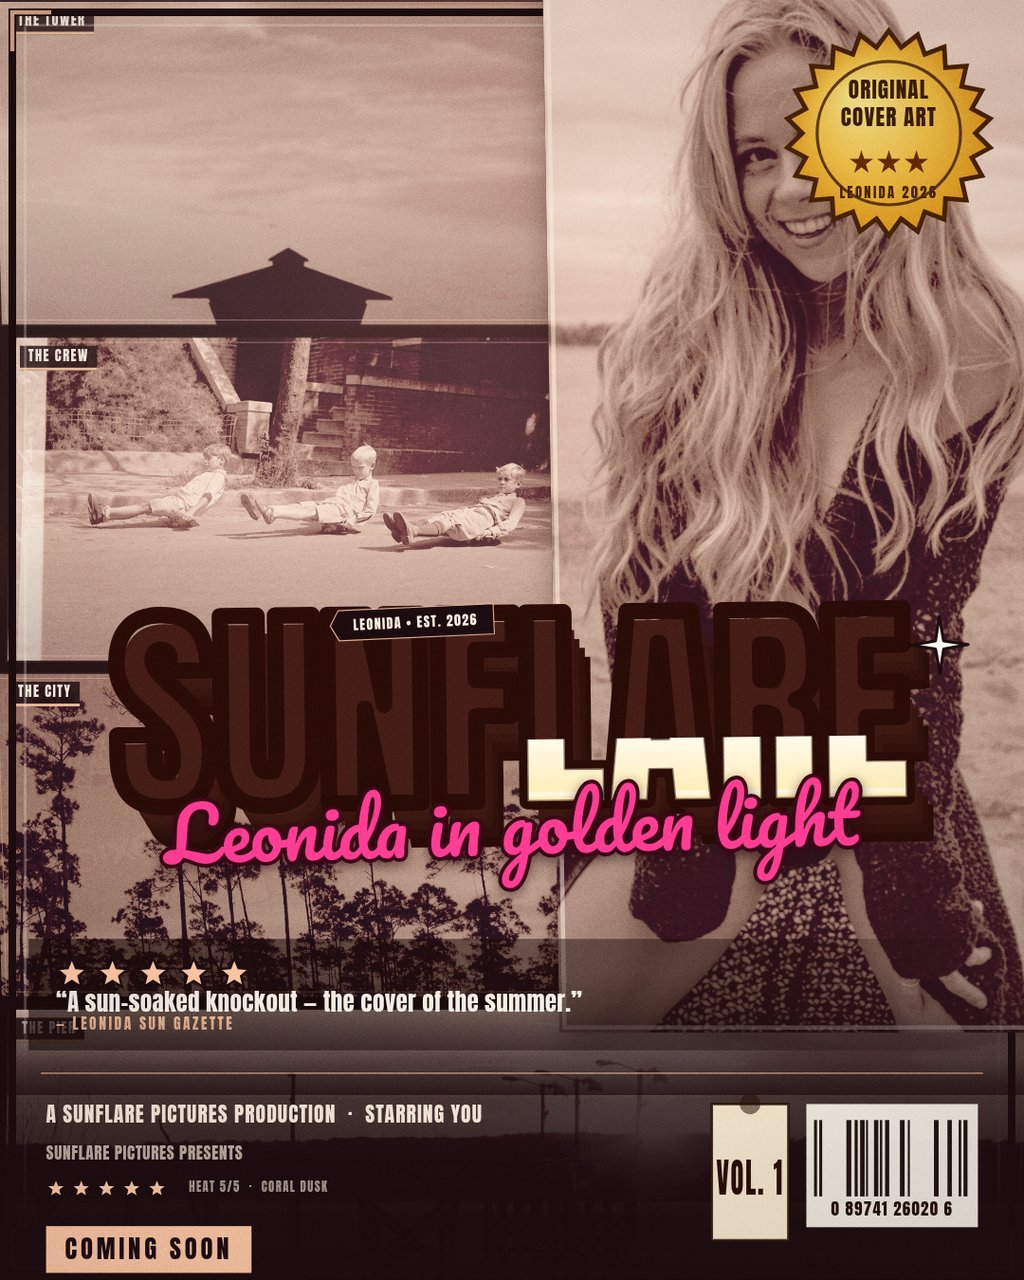
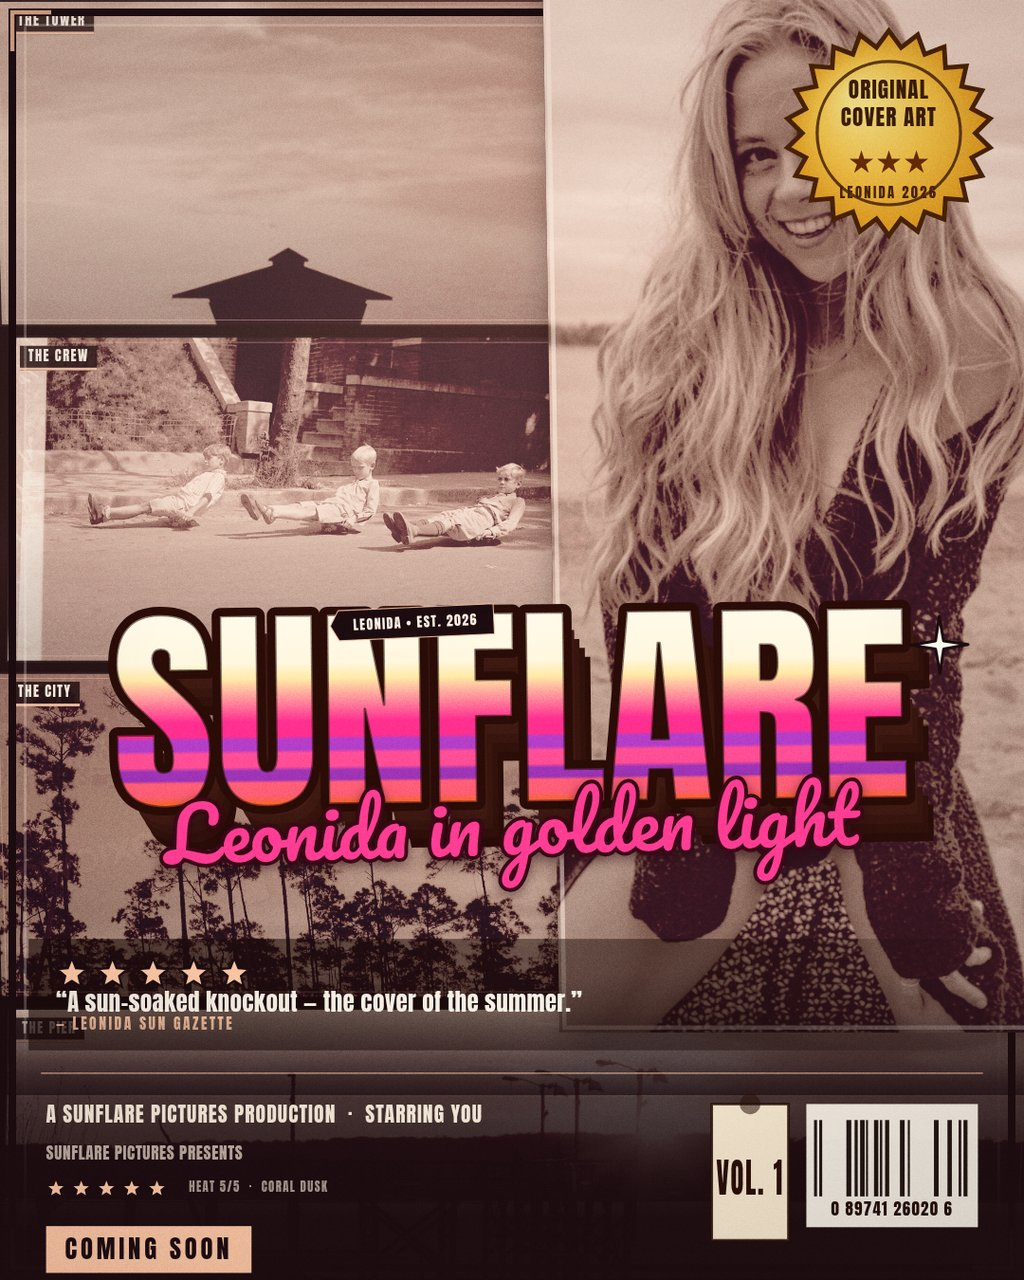
Sunflare: round 5 chrome title fix

Changed region(s): [[0.0938, 0.4688, 0.9062, 0.6562]]

diff --git a/app/src/render.js b/app/src/render.js
@@ -448,42 +448,97 @@ function drawInkFrame(ctx, plan, palette, size) {
 
 /* --------------------------------------------------------------- lettering */
 
+/** Chrome ramp, top to foot: cream -> sun-yellow -> orange. */
+const CHROME_BASE = [
+  [0.00, '#fffaea'],
+  [0.34, '#ffe9a6'],
+  [0.62, '#ffc94a'],
+  [0.86, '#ff8a24'],
+  [1.00, '#f7671c'],
+];
+
+/** Magenta/purple stripes across the lower half: [top, height, colour, alpha]
+ *  as fractions of the title block height. */
+const CHROME_BANDS = [
+  [0.56, 0.075, '#ff2294', 0.92],
+  [0.655, 0.052, '#a82ade', 0.86],
+  [0.725, 0.070, '#ff44a0', 0.90],
+  [0.815, 0.048, '#8c22d2', 0.84],
+  [0.878, 0.062, '#ff5a82', 0.88],
+];
+
+/** Specular line across the upper third, the way chrome catches the sun. */
+const CHROME_SPEC = [0.235, 0.022, '#ffffff', 0.55];
+
+function hexRgb(hex) {
+  const n = parseInt(hex.replace('#', ''), 16);
+  return [(n >> 16) & 255, (n >> 8) & 255, n & 255];
+}
+
+/** Piecewise-linear sample of the base ramp at t in [0, 1]. */
+function chromeBaseAt(t) {
+  const x = Math.min(1, Math.max(0, t));
+  for (let i = 0; i < CHROME_BASE.length - 1; i++) {
+    const [t0, c0] = CHROME_BASE[i];
+    const [t1, c1] = CHROME_BASE[i + 1];
+    if (x <= t1) {
+      const k = (x - t0) / Math.max(1e-6, t1 - t0);
+      const a = hexRgb(c0);
+      const b = hexRgb(c1);
+      return [
+        a[0] + (b[0] - a[0]) * k,
+        a[1] + (b[1] - a[1]) * k,
+        a[2] + (b[2] - a[2]) * k,
+      ];
+    }
+  }
+  return hexRgb(CHROME_BASE[CHROME_BASE.length - 1][1]);
+}
+
+function blendRgb(rgb, hex, alpha) {
+  const b = hexRgb(hex);
+  return [
+    rgb[0] + (b[0] - rgb[0]) * alpha,
+    rgb[1] + (b[1] - rgb[1]) * alpha,
+    rgb[2] + (b[2] - rgb[2]) * alpha,
+  ];
+}
+
+/** Base colour at t with every stripe band and the specular line blended in. */
+function chromeColorAt(t) {
+  let c = chromeBaseAt(t);
+  for (const [y, hh, hex, alpha] of CHROME_BANDS) {
+    if (t >= y && t <= y + hh) c = blendRgb(c, hex, alpha);
+  }
+  const [sy, sh, shex, salpha] = CHROME_SPEC;
+  if (t >= sy && t <= sy + sh) c = blendRgb(c, shex, salpha);
+  return [Math.round(c[0]), Math.round(c[1]), Math.round(c[2])];
+}
+
 /**
  * The striped-chrome fill: cream at the top, sun-yellow through the middle and
  * orange at the foot, with magenta and purple bands run across the lower half.
- * Built once per masthead at the title block's own size, then used as a pattern
- * so the stripes line up with the block rather than with each glyph.
+ * Built as a direct linear gradient in the glyph frame, so it lines up with
+ * the text block at every layout and export size. Breakpoints land on every
+ * ramp stop and every band edge, duplicated either side so the stripes stay
+ * crisp.
  */
-function stripedChromePattern(ctx, blockW, blockH) {
-  const c = document.createElement('canvas');
-  c.width = Math.max(2, Math.round(blockW));
-  c.height = Math.max(2, Math.round(blockH));
-  const g = c.getContext('2d');
-  const grad = g.createLinearGradient(0, 0, 0, c.height);
-  grad.addColorStop(0.00, '#fffaea');
-  grad.addColorStop(0.34, '#ffe9a6');
-  grad.addColorStop(0.62, '#ffc94a');
-  grad.addColorStop(0.86, '#ff8a24');
-  grad.addColorStop(1.00, '#f7671c');
-  g.fillStyle = grad;
-  g.fillRect(0, 0, c.width, c.height);
-
-  // Horizontal magenta/purple stripes through the lower half of the glyphs.
-  const bands = [
-    [0.56, 0.075, 'rgba(255, 34, 148, 0.92)'],
-    [0.655, 0.052, 'rgba(168, 42, 222, 0.86)'],
-    [0.725, 0.070, 'rgba(255, 68, 160, 0.90)'],
-    [0.815, 0.048, 'rgba(140, 34, 210, 0.84)'],
-    [0.878, 0.062, 'rgba(255, 90, 130, 0.88)'],
-  ];
-  for (const [y, hh, colour] of bands) {
-    g.fillStyle = colour;
-    g.fillRect(0, c.height * y, c.width, Math.max(1, c.height * hh));
+function stripedChromeFill(ctx, top, height) {
+  const grad = ctx.createLinearGradient(0, top, 0, top + height);
+  const edges = new Set([0, 1]);
+  for (const [t] of CHROME_BASE) edges.add(t);
+  for (const [y, hh] of CHROME_BANDS) { edges.add(y); edges.add(y + hh); }
+  edges.add(CHROME_SPEC[0]);
+  edges.add(CHROME_SPEC[0] + CHROME_SPEC[1]);
+  const stops = [...edges].sort((a, b) => a - b);
+  for (const t of stops) {
+    const rgb = chromeColorAt(t);
+    const css = `rgb(${rgb[0]}, ${rgb[1]}, ${rgb[2]})`;
+    grad.addColorStop(Math.max(0, t - 1e-6), css);
+    grad.addColorStop(t, css);
+    grad.addColorStop(Math.min(1, t + 1e-6), css);
   }
-  // A specular line across the upper third, the way chrome catches the sun.
-  g.fillStyle = 'rgba(255,255,255,0.55)';
-  g.fillRect(0, c.height * 0.235, c.width, Math.max(1, c.height * 0.022));
-  return ctx.createPattern(c, 'no-repeat');
+  return grad;
 }
 
 /** A four-point sparkle, cream with a dark keyline. */
@@ -562,10 +617,25 @@ function drawMasthead(ctx, state, plan, palette, size) {
   ctx.font = `${fsize}px ${TITLE_FACE}`;
   ctx.letterSpacing = `${fsize * tracking}px`;
 
-  const pattern = stripedChromePattern(ctx, blockW, textH);
+  // Anton's caps are far shorter than its line box, so anchor the chrome ramp
+  // to the measured glyph ink box rather than to the line box.
+  let inkTop = Infinity;
+  let inkBottom = -Infinity;
+  lines.forEach((line, i) => {
+    const yy = (i - (lines.length - 1) / 2) * lineH;
+    const m2 = ctx.measureText(line);
+    inkTop = Math.min(inkTop, yy - (m2.actualBoundingBoxAscent || fsize * 0.72));
+    inkBottom = Math.max(inkBottom, yy + (m2.actualBoundingBoxDescent || 0));
+  });
+  if (inkBottom - inkTop < 1) {
+    inkTop = -textH / 2;
+    inkBottom = textH / 2;
+  }
+  const inkH = inkBottom - inkTop;
+
   const style = state.titleStyle ?? 'chrome';
   const buildFill = () => {
-    if (style === 'chrome') return pattern;
+    if (style === 'chrome') return stripedChromeFill(ctx, inkTop, inkH);
     if (style === 'white') return palette.paper;
     const g = ctx.createLinearGradient(0, -textH / 2, 0, textH / 2);
     g.addColorStop(0, '#fff3cf');
